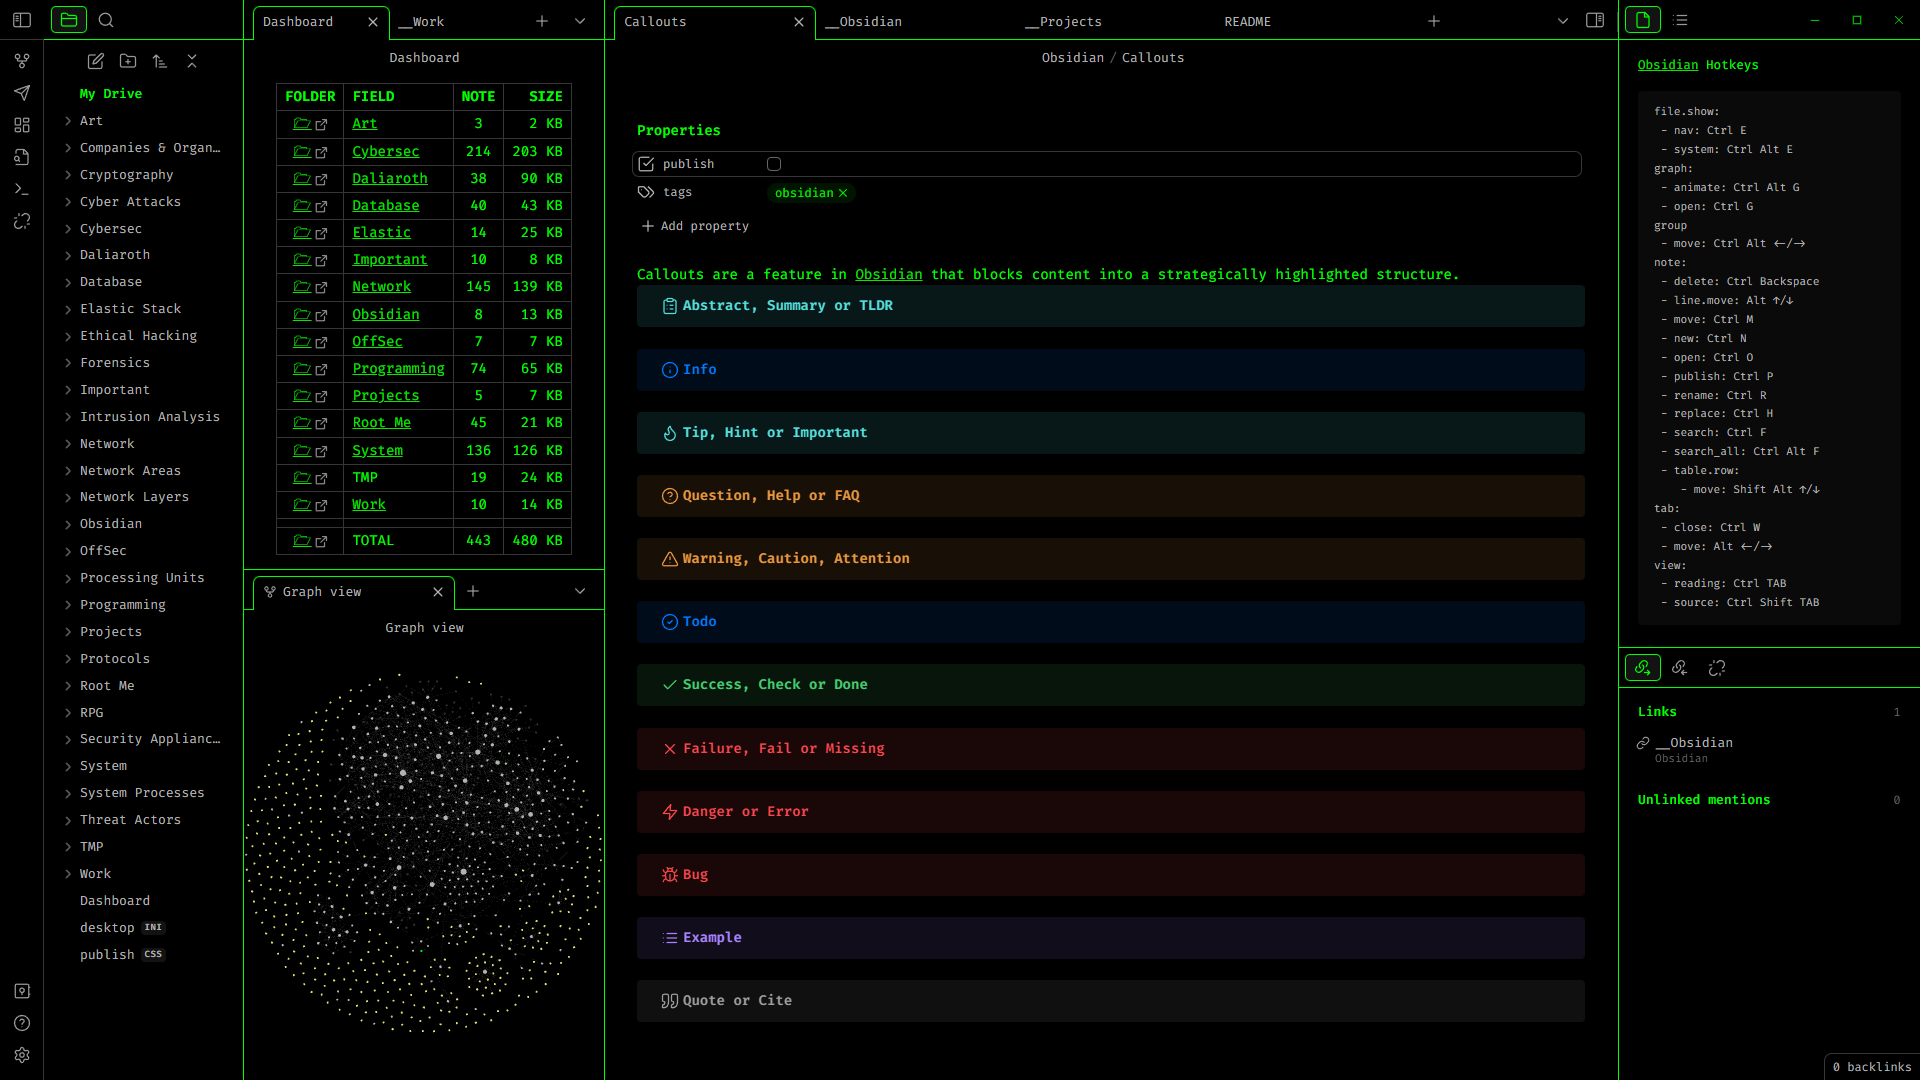
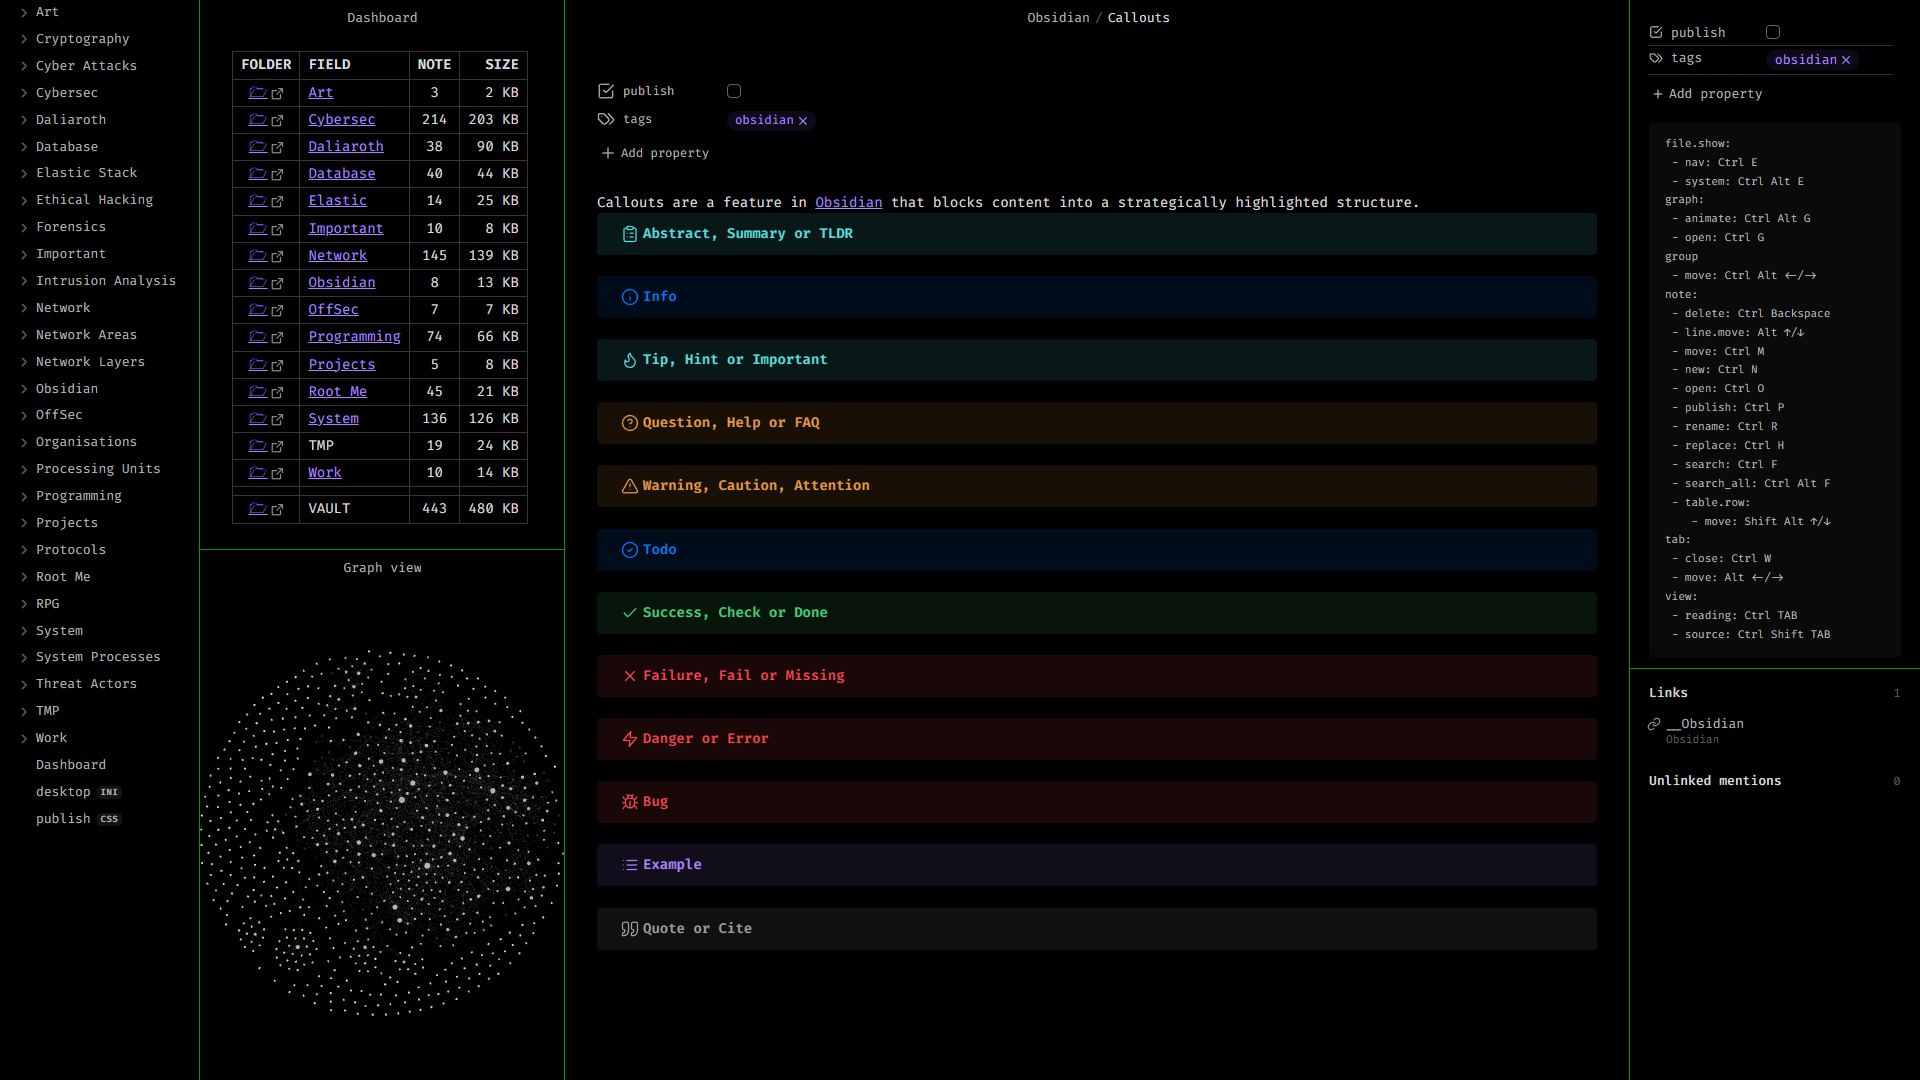
Update

diff --git a/theme.CSS b/theme.CSS
@@ -1,87 +1,114 @@
+/*==================
+= CUSTOM VARIABLES =
+==================*/
+
+/* Colours */
 :root {
-	/* CUSTOM VARIABLES */
 	--black: #000000;
-	--black-rgb: 0, 0, 0;
-	
-	--dark-grey: #0A0A0A;
-	--dark-grey-rgb: 10, 10, 10;
-	
+	--dark-grey: #0a0a0a;	
 	--bright-green: #00FF00;
-	--bright-green-rgb: 0, 255, 0;
-	
-	--mild-green: #007D00;
-	--mild-green-rgb: 0, 125, 0;
-	
+	--mild-green: #009900;
 	--testing: #FF00C8;
-	--testing-rgb: 255, 0, 200;
-	
-	--main-font: Fira Code;
-	
-	/* FONT */
-	--default-font: var(--main-font);
-	--font-monospace: var(--main-font);
-	
-	/* TEXT */
-	--line-height-normal: 1;
-
-	/* WINDOW RESIZE HANDLE */
-	.workspace-leaf-resize-handle {
-		border-color: #00FF00;
-	}
-
-	/* TAB HEADERS */
-	.workspace-tab-header-container {
-		border-bottom: var(--tab-outline-width) solid #00FF00;
-	}
-
-	.workspace-tab-header {
-		position: inherit;
-	}
-
-	.workspace-tab-header.is-active {
-		box-shadow: 0 0 0 var(--tab-outline-width) #00FF00;
-	}
 }
 
+/* Fonts */
+:root {
+	--main-font: Fira Code;
+}
+
+/*===========
+= WORKSPACE =
+===========*/
+
+/* Background Colours */
 .theme-dark,
 .theme-light {
-	/* BACKGROUND */
 	--background-primary: var(--black);
 	--background-primary-alt: var(--black);
 	--background-secondary: var(--black);
 	--background-secondary-alt: var(--black);
 	--code-background: var(--dark-grey);
-	
-	/* GRAPH */
-	--graph-node-focused: var(--bright-green);
-
-	/* TEXT */
-	--text-normal: #00FF00;
 }
 
-/*========
-= HIDDEN =
-========*/
-
-/* SCROLLBAR */
-::-webkit-scrollbar {
+/* Backlink Status Bar */
+div.status-bar {
 	display: none;
 }
 
-/* PREVIOUS/NEXT BUTTONS */
+/* Fonts */
+:root {
+	--default-font: var(--main-font);
+	--font-monospace: var(--main-font);
+}
+
+/* Resize Handle */
+hr.workspace-leaf-resize-handle {
+	border-color: var(--mild-green);
+}
+/* Ribbon */
+div.workspace-ribbon {
+	display: none;
+}
+
+/* Titlebar */
+div.titlebar-inner,
+div.workspace-tab-header-container {
+	display: none;
+}
+
+/*================
+= DIRECTORY TREE =
+================*/
+
+/* New Note/Folder, Sort Order & Collapse/Exapnd Buttons */
+div.workspace-leaf-content > div.nav-header {
+	display: none;
+}
+
+/* Vault Name */
+div.tree-item.nav-folder.mod-root > div.tree-item-self.nav-folder-title {
+	display: none;
+}
+
+/*=====
+= TAB =
+=====*/
+
+/* Graph Nodes */
+.theme-dark,
+.theme-light {
+	--graph-node-focused: var(--bright-green);
+}
+
+/* Graph Control Buttons */
+div.graph-controls,
+div.clickable-icon.graph-controls-button.mod-open,
+div.clickable-icon.graph-controls-button.mod-animate {
+	display: none;
+}
+
+/* Lines */
+:root {
+	--line-height-normal: 1;
+}
+
+/* Previous/Next Buttons */
 div.view-header-nav-buttons {
 	display: none;
 }
 
-/* VIEW ACTION BUTTONS */
-div.view-actions,
-a.clickable-icon.view-action {
+/* Properties */
+div.metadata-properties-heading {
 	display: none;
 }
 
-/* GRAPH CONTOL BUTTONS */
-div.graph-controls,
-div.clickable-icon.graph-controls-button.mod-open,
-div.clickable-icon.graph-controls-button.mod-animate {
+/* Scrollbars */
+::-webkit-scrollbar {
+	display: none;
+}
+
+/* View Action Buttons */
+div.view-actions,
+a.clickable-icon.view-action {
 	display: none;
 }
